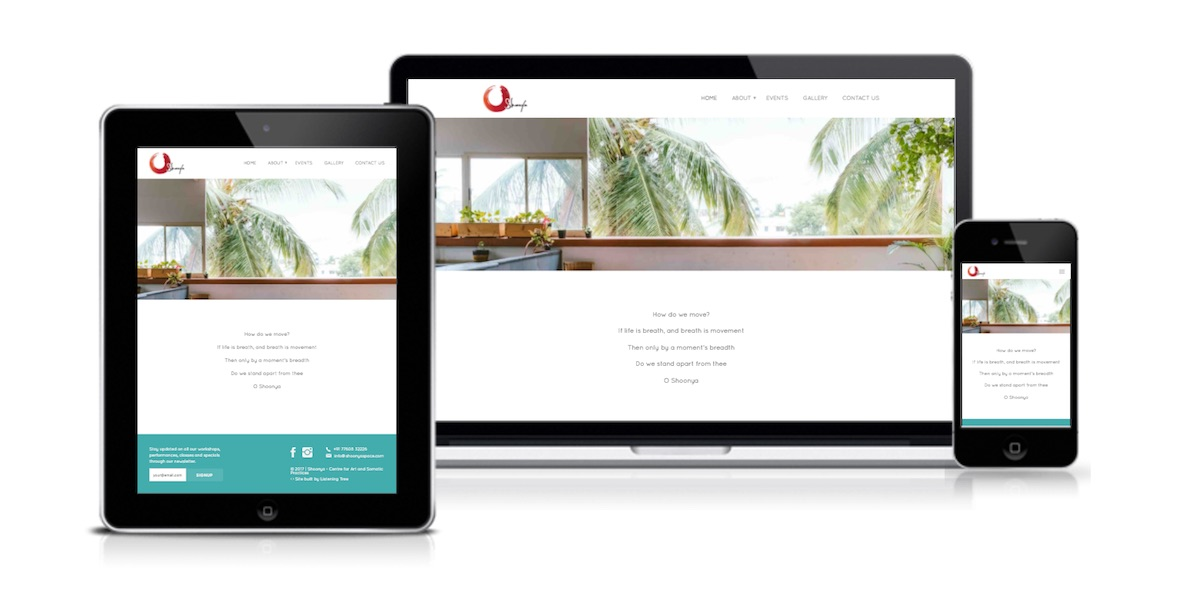
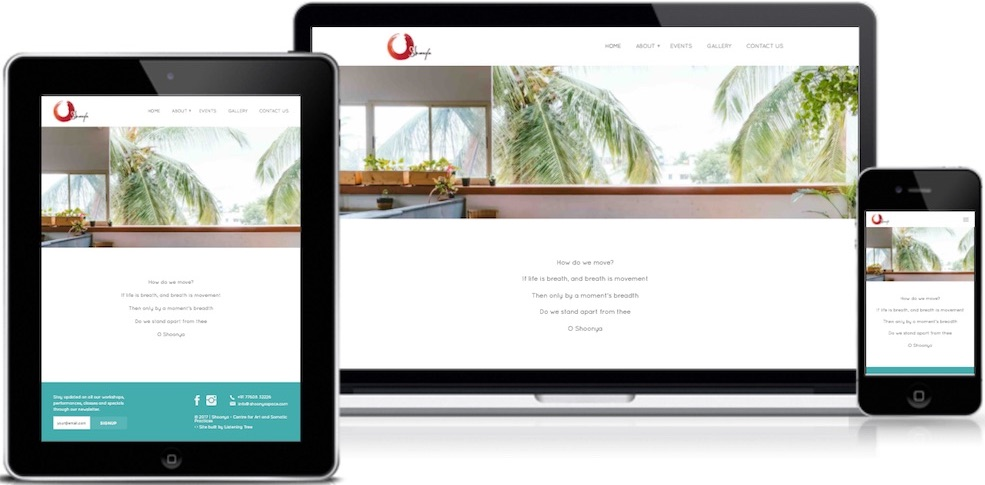
Make improvements to About page

diff --git a/about-me/index.html b/about-me/index.html
@@ -124,26 +124,6 @@
                                target="_blank">"Best
                                 in Show" at the IxDA awards</a>.
                         </p>
-                        <figure>
-                            <img src="../images/about-me/field-research.jpg"
-                                 alt="Our team conducting contextual inquiry and interview with a nurse in Bathinda, Punjab">
-                            <figcaption>Conducting contextual inquiry and interviewing a nurse in Bathinda,
-                                Punjab</figcaption>
-                        </figure>
-                        <figure>
-                            <img src="../images/about-me/co-creation.jpeg">
-                            <figcaption>A nurse and a doctor participating in a co-creation exercise
-                            </figcaption>
-                        </figure>
-                        <figure>
-                            <img src="../images/about-me/debriefing.jpg"
-                                 alt="">
-                            <figcaption>
-                                The Simple team debriefing after a role-playing session
-                            </figcaption>
-                        </figure>
-
-                        <div class="separator"></div>
                         <p>
                             In my practice as a user researcher, I bring in learning from my experiences as a
                             software
@@ -157,6 +137,25 @@
                             with
                             sensitivity.
                         </p>
+                        <figure>
+                            <img src="../images/about-me/field-research.jpg"
+                                 alt="Our team conducting contextual inquiry and interview with a nurse in Bathinda, Punjab">
+                            <figcaption>Conducting contextual inquiry and interviewing a nurse in Bathinda,
+                                Punjab</figcaption>
+                        </figure>
+                        <figure>
+                            <img src="../images/about-me/co-creation.jpeg">
+                            <figcaption>A nurse and a doctor participating in a co-creation exercise
+                            </figcaption>
+                        </figure>
+
+                        <figure>
+                            <img src="../images/about-me/debriefing.jpg"
+                                 alt="">
+                            <figcaption>
+                                The Simple team debriefing after a role-playing session
+                            </figcaption>
+                        </figure>
                         <div class="separator"></div>
                         <h2>Building websites</h2>
                         <p>
@@ -168,7 +167,7 @@
                             <a href="http://shoonyaspace.com/"
                                target="_blank">Shoonya Space</a> (2017–2018).
                         </p>
-                        <figure class="center-wide">
+                        <figure>
                             <img src="../images/about-me/shoonya-responsive-2.jpg"
                                  alt="">
                         </figure>

diff --git a/css/about-me.css b/css/about-me.css
@@ -18,7 +18,7 @@
     flex-wrap: wrap;
     justify-content: center;
     align-items: center;
-    margin: 40px -180px 0;
+    margin: 40px 0 0 0;
 }
 
 .main-about-me .logo-images img {
